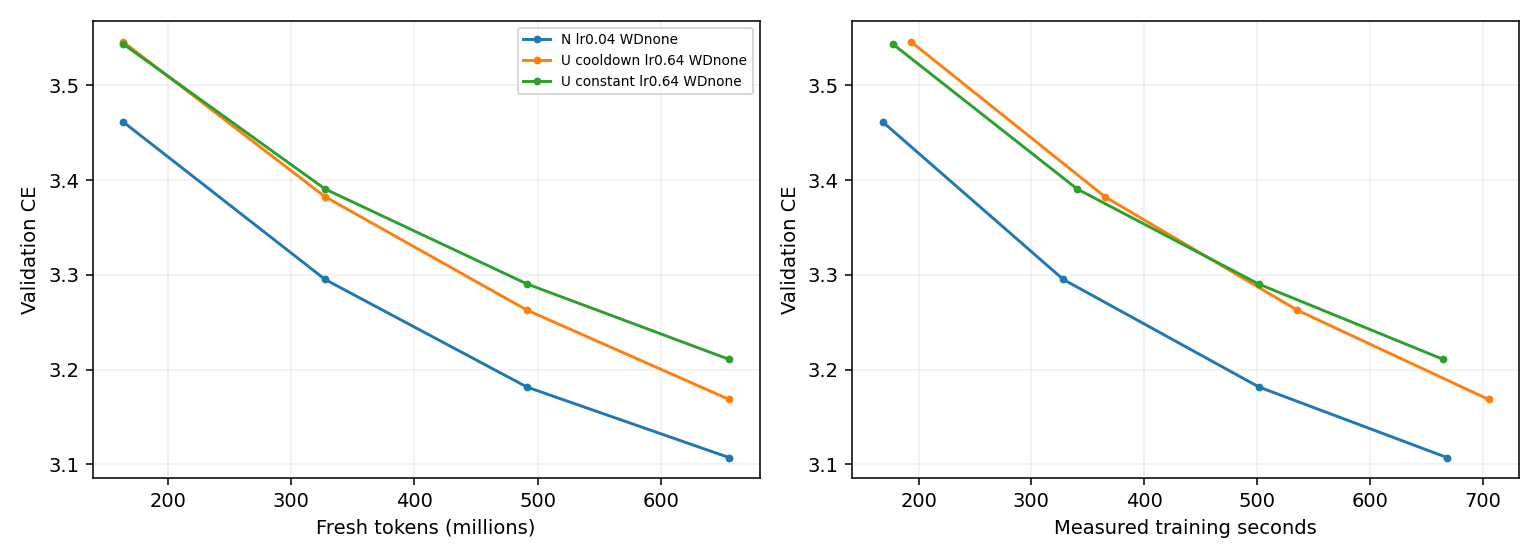
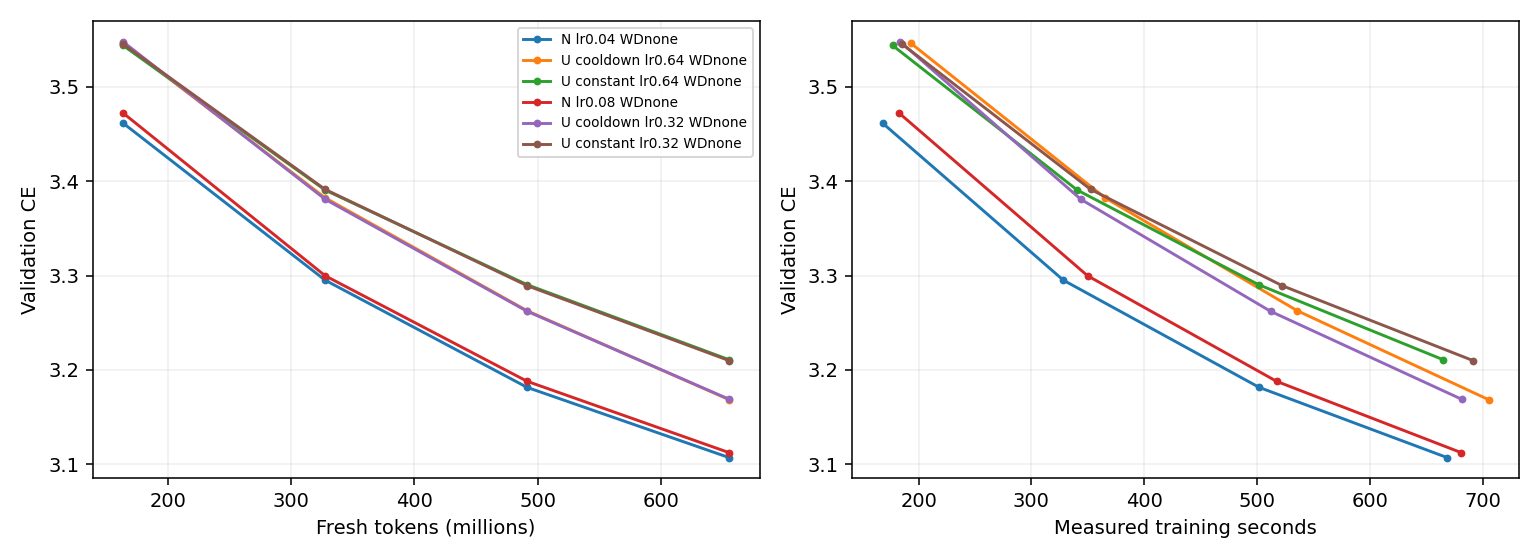
Update live Muon experiment results

diff --git a/research/unnormalized_muon/DETAILED_EVAL.md b/research/unnormalized_muon/DETAILED_EVAL.md
@@ -9,6 +9,9 @@ All results use the B300 fork model/data/tokenizer and a fixed tuning-validation
 | normalized WD none 0 | 0.04 | 20000 | 3.107198 | 668.45 | 743.22 |
 | unnormalized cooldown WD none 0 | 0.64 | 20000 | 3.168528 | 705.21 | 779.28 |
 | unnormalized constant WD none 0 | 0.64 | 20000 | 3.210816 | 665.00 | 737.52 |
+| normalized WD none 0 | 0.08 | 20000 | 3.112453 | 680.91 | 755.24 |
+| unnormalized cooldown WD none 0 | 0.32 | 20000 | 3.168984 | 681.31 | 754.69 |
+| unnormalized constant WD none 0 | 0.32 | 20000 | 3.209921 | 691.44 | 765.35 |
 
 ## Weight decay search
 
@@ -20,10 +23,12 @@ CLI lambda = 0.28*(0.04/CLI_eta)*strength matches nominal eta*lambda exposure ac
 |---|---|---:|---:|---:|---:|---:|---|
 | normalized | standard | 0.25 | 0.02 | 0.14 | 2000 | 3.576236 | 0.40773–0.81545 |
 | normalized | standard | 0.25 | 0.04 | 0.07 | 2000 | 3.561056 | 0.40773–0.81545 |
+| normalized | standard | 0.25 | 0.08 | 0.035 | 2000 | 3.557473 | 0.40773–0.81545 |
+| unnormalized | standard | 0.25 | 0.16 | 0.0175 | 2000 | 3.708944 | 0.40773–0.81545 |
 
 ## FW gap-based step and line search
 
-Fixed radii R_i=max(1,radius_factor*initial spectral norm(W_i)). A certified spectral-safe approximate polar direction Q_i defines D_i=-R_i Q_i-W_i. One shared gamma=clip(b/(L*v),0,1), b=-sum<G_i,D_i>, v=sum||D_i||F^2. Current-gradient and momentum oracles are separately labelled. With an approximate or momentum oracle, b is a directional gap, not an exact FW optimality certificate. Nonpositive b skips all candidate forwards. No additional matrix decay is applied.
+Fixed radii R_i=max(1,radius_factor*initial spectral norm(W_i)). A certified spectral-safe approximate polar direction Q_i defines D_i=-R_i Q_i-W_i. One shared gamma=clip(b/(L*v),0,gamma_cap); original runs use gamma_cap=1, while scheduled-cap variants multiply a tuned cap by the common warmup/cooldown LR multiplier. This is an explicit additional safeguard, not automatic shrinking from the gap alone. The gap uses b=-sum<G_i,D_i>, v=sum||D_i||F^2. Current-gradient and momentum oracles are separately labelled. With an approximate or momentum oracle, b is a directional gap, not an exact FW optimality certificate. Nonpositive b skips all candidate forwards. No additional matrix decay is applied.
 
 Strict smoothness backtracking compares a same-path functional reference at gamma=0 with candidates on the entire current effective batch, using the same token weighting and preserved RNG. Auxiliary weights are frozen during checks and updated afterward. The separately labelled Armijo variant accepts f(candidate)<=f0-c*gamma*b with c=.01 and forbids measured increases; it does NOT certify the original quadratic smoothness bound. Same-batch decrease does not guarantee heldout improvement.
 
@@ -37,7 +42,7 @@ Strict smoothness backtracking compares a same-path functional reference at gamm
 
 ### um-check-fw-derivative-001
 
-Oracle: gradient; acceptance: smoothness; compiled candidates: False; radius factor: 2. Search state/RNG audit: True. Each extra forward evaluates the entire effective batch; actual microbatch-forward count: 358. Extra diagnostic gradient queries: 3, diagnostic seconds: 2.061.
+Oracle: gradient; acceptance: smoothness; compiled candidates: False; radius factor: 2; gamma cap: 1; scheduled: False. Search state/RNG audit: True. Each extra forward evaluates the entire effective batch; actual microbatch-forward count: 358. Extra diagnostic gradient queries: 3, diagnostic seconds: 2.061.
 
 | Quantity | Min | P25 | Median | P75 | Max |
 |---|---:|---:|---:|---:|---:|
@@ -54,7 +59,7 @@ Accepted steps with measured minibatch increase: 6; acceptance has relative BF16
 
 ### um-check-fw-gradient-001
 
-Oracle: gradient; acceptance: smoothness; compiled candidates: False; radius factor: 2. Search state/RNG audit: True. Each extra forward evaluates the entire effective batch; actual microbatch-forward count: 394. Extra diagnostic gradient queries: 0, diagnostic seconds: 0.000.
+Oracle: gradient; acceptance: smoothness; compiled candidates: False; radius factor: 2; gamma cap: 1; scheduled: False. Search state/RNG audit: True. Each extra forward evaluates the entire effective batch; actual microbatch-forward count: 394. Extra diagnostic gradient queries: 0, diagnostic seconds: 0.000.
 
 | Quantity | Min | P25 | Median | P75 | Max |
 |---|---:|---:|---:|---:|---:|
@@ -71,7 +76,7 @@ Accepted steps with measured minibatch increase: 11; acceptance has relative BF1
 
 ### um-check-fw-momentum-001
 
-Oracle: momentum; acceptance: smoothness; compiled candidates: False; radius factor: 2. Search state/RNG audit: True. Each extra forward evaluates the entire effective batch; actual microbatch-forward count: 366. Extra diagnostic gradient queries: 0, diagnostic seconds: 0.000.
+Oracle: momentum; acceptance: smoothness; compiled candidates: False; radius factor: 2; gamma cap: 1; scheduled: False. Search state/RNG audit: True. Each extra forward evaluates the entire effective batch; actual microbatch-forward count: 366. Extra diagnostic gradient queries: 0, diagnostic seconds: 0.000.
 
 | Quantity | Min | P25 | Median | P75 | Max |
 |---|---:|---:|---:|---:|---:|
@@ -88,7 +93,7 @@ Accepted steps with measured minibatch increase: 14; acceptance has relative BF1
 
 ### um-clean-long-2-fw-pilot
 
-Oracle: momentum; acceptance: smoothness; compiled candidates: False; radius factor: 2. Search state/RNG audit: True. Each extra forward evaluates the entire effective batch; actual microbatch-forward count: 5995. Extra diagnostic gradient queries: 0, diagnostic seconds: 0.000.
+Oracle: momentum; acceptance: smoothness; compiled candidates: False; radius factor: 2; gamma cap: 1; scheduled: False. Search state/RNG audit: True. Each extra forward evaluates the entire effective batch; actual microbatch-forward count: 5995. Extra diagnostic gradient queries: 0, diagnostic seconds: 0.000.
 
 | Quantity | Min | P25 | Median | P75 | Max |
 |---|---:|---:|---:|---:|---:|

diff --git a/research/unnormalized_muon/RESULTS.md b/research/unnormalized_muon/RESULTS.md
@@ -36,6 +36,9 @@ One B300 per job. CE is token cross-entropy (nats); lower is better. Rows with d
 | um-clean-long-0-0-normalized-lr0p04 | Clean Native cooldown | 20000 | 0 | 0.04 | 3.107198 | 0.942041 | — | 743.22 |
 | um-clean-long-0-1-cooldown-lr0p64 | Clean Unnormalized cooldown | 20000 | 0 | 0.64 | 3.168528 | 0.960609 | — | 779.28 |
 | um-clean-long-0-2-constant-lr0p64 | Clean Unnormalized constant | 20000 | 0 | 0.64 | 3.210816 | 0.973451 | — | 737.52 |
+| um-clean-long-1-0-normalized-lr0p08 | Clean Native cooldown | 20000 | 0 | 0.08 | 3.112453 | 0.943630 | — | 755.24 |
+| um-clean-long-1-1-cooldown-lr0p32 | Clean Unnormalized cooldown | 20000 | 0 | 0.32 | 3.168984 | 0.960728 | — | 754.69 |
+| um-clean-long-1-2-constant-lr0p32 | Clean Unnormalized constant | 20000 | 0 | 0.32 | 3.209921 | 0.973169 | — | 765.35 |
 | um-clean-long-2-fw-pilot | Clean FW backtracking momentum Rfactor2 smoothness eager | 2000 | 0 | 0.02 | 4.185817 | 1.268782 | — | 409.98 |
 | um-fw-diagnostic-001 | FW backtracking momentum Rfactor2 smoothness eager | 64 | 0 | 0.02 | 6.469995 | 1.960658 | — | 95.07 |
 | um-fw-diagnostic-002 | FW backtracking momentum Rfactor2 smoothness eager | 64 | 0 | 0.02 | 6.900428 | 2.091122 | — | 117.14 |
@@ -51,10 +54,12 @@ One B300 per job. CE is token cross-entropy (nats); lower is better. Rows with d
 | um-smoke-001/scaled | Unnormalized cooldown | 64 | 42 | 0.002 | 6.492003 | 1.967335 | — | 74.24 |
 | um-wd-grid-0-0-norm-lr0p02 | Clean Native cooldown WD:standard(0.14) | 2000 | 0 | 0.02 | 3.576236 | 1.084133 | — | 164.96 |
 | um-wd-grid-0-0-norm-lr0p04 | Clean Native cooldown WD:standard(0.07) | 2000 | 0 | 0.04 | 3.561056 | 1.079537 | — | 164.28 |
+| um-wd-grid-0-0-norm-lr0p08 | Clean Native cooldown WD:standard(0.035) | 2000 | 0 | 0.08 | 3.557473 | 1.078491 | — | 156.53 |
+| um-wd-grid-0-0-unnorm-lr0p16 | Clean Unnormalized cooldown WD:standard(0.0175) | 2000 | 0 | 0.16 | 3.708944 | 1.124338 | — | 158.20 |
 
 Review of um-fw-diagnostic-001: Compiled training f0 compared against functional candidate losses; vanishing-step mismatch2-4e-5 exceeded tolerance, leading to curvature1e186 and45 skipped steps. Replaced by paired functional reference and candidates; retain all645 measured forwards and GPUcost.
 
-Conservative charged/reserved total: 5.4202 / 30 B300 GPU-hours. Includes prior smoke/failed attempts and current maximum-duration reservations. Six-slot central queue; one B300 per run.
+Conservative charged/reserved total: 4.9487 / 30 B300 GPU-hours. Includes prior smoke/failed attempts and current maximum-duration reservations. Six-slot central queue; one B300 per run.
 
 CLEAN geometry disables row equilibration and NorMuon. Original clean runs use zero matrix decay; new WD runs explicitly label standard or cautious decay and their CLI coefficient. Same five Polar Express steps and Frobenius correction; scale by the per-matrix nonnegative FP32 inner product of the native Nesterov input with the NS/Frobenius direction. Shape scaling occurs once outside the scalar. Legacy rows retain production extras and must be compared separately. Constant schedule changes only matrix LR; auxiliary schedules and momentum remain matched.
 
